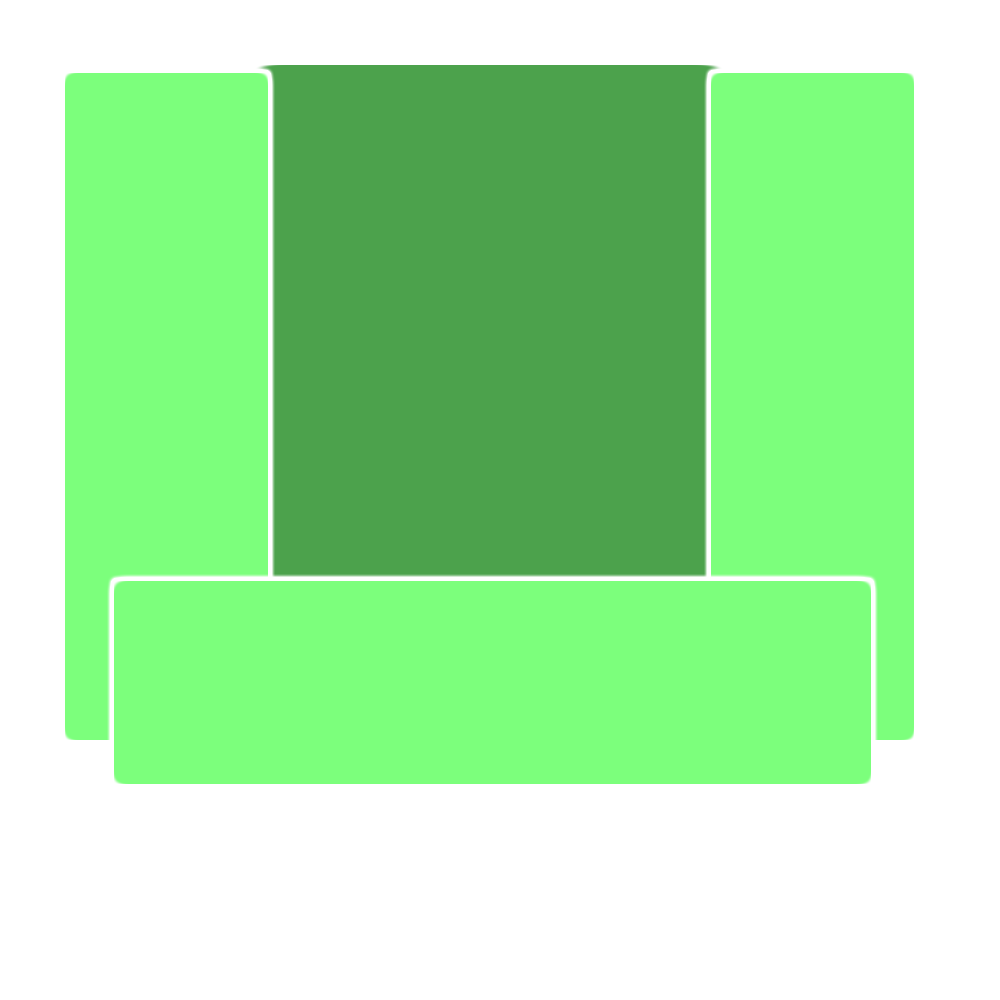
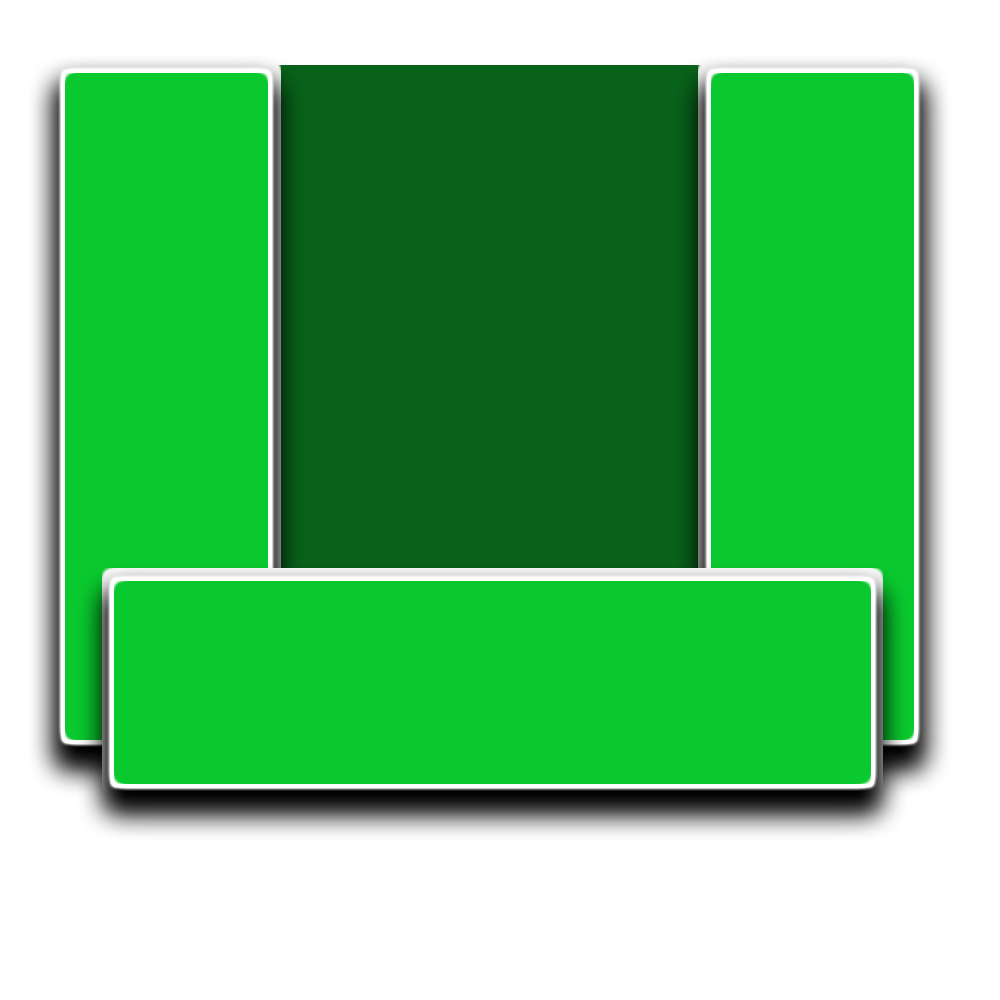
Seat image progress (almost done)

diff --git a/src/View/SeatPanel.java b/src/View/SeatPanel.java
@@ -19,8 +19,10 @@ public class SeatPanel extends JPanel {
     private final Seat[][] viewSeats;
     private final int rowID;
     private final int columnID;
-    protected static Image NORMAL_IMAGE = new BufferedImage(100, 100, BufferedImage.TYPE_INT_RGB);
-    protected static Image BOOKED_IMAGE = new BufferedImage(100, 100, BufferedImage.TYPE_INT_RGB);
+    static Image NORMAL_IMAGE = new BufferedImage(100, 100, BufferedImage.TYPE_INT_RGB);
+    static Image BOOKED_IMAGE = new BufferedImage(100, 100, BufferedImage.TYPE_INT_RGB);
+    static Image SELECTED_IMAGE = new BufferedImage(100, 100, BufferedImage.TYPE_INT_RGB);
+    static Image HIGHLIGHT_IMAGE = new BufferedImage(100, 100, BufferedImage.TYPE_INT_RGB);
 
 
     public SeatPanel(int rows, int columns, SeatModel[] reservedSeats, boolean b) {
@@ -29,8 +31,14 @@ public class SeatPanel extends JPanel {
         columnID = columns;
         viewSeats = new Seat[rowID][columnID];
         try {
-            NORMAL_IMAGE = ImageIO.read(Seat.class.getResourceAsStream("images/normal_seat.png")).getScaledInstance(100, 100, Image.SCALE_SMOOTH);
-            BOOKED_IMAGE = ImageIO.read(Seat.class.getResourceAsStream("images/booked_seat.png")).getScaledInstance(100, 100, Image.SCALE_SMOOTH);
+            NORMAL_IMAGE = ImageIO.read(Seat.class.getResourceAsStream("images/normal_seat.png"))
+                    .getScaledInstance(1000/columns, 500/rows, Image.SCALE_SMOOTH);
+            BOOKED_IMAGE = ImageIO.read(Seat.class.getResourceAsStream("images/booked_seat.png"))
+                    .getScaledInstance(1000/columns, 500/rows, Image.SCALE_SMOOTH);
+            SELECTED_IMAGE = ImageIO.read(Seat.class.getResourceAsStream("images/selected_seat.png"))
+                    .getScaledInstance(1000/columns, 500/rows, Image.SCALE_SMOOTH);
+            HIGHLIGHT_IMAGE = ImageIO.read(Seat.class.getResourceAsStream("images/highlight_seat.png"))
+                    .getScaledInstance(1000/columns, 500/rows, Image.SCALE_SMOOTH);
         } catch (IOException ex) {
             ex.printStackTrace();
         }

diff --git a/src/View/Seat.java b/src/View/Seat.java
@@ -32,12 +32,12 @@ public class Seat extends JButton implements MouseListener
         if (isBooked) {
             g.drawImage(SeatPanel.BOOKED_IMAGE, 0,0, null  );
         }
-        /*else if (isSelected) {
-            g.setColor(Color.pink);
+        else if (isSelected) {
+            g.drawImage(SeatPanel.SELECTED_IMAGE, 0,0, null  );
         }
         else if (isHighlighted) {
-            g.setColor(Color.yellow);
-        }*/
+            g.drawImage(SeatPanel.HIGHLIGHT_IMAGE, 0,0, null  );
+        }
         else {
             g.drawImage(SeatPanel.NORMAL_IMAGE, 0,0, null  );
         }
